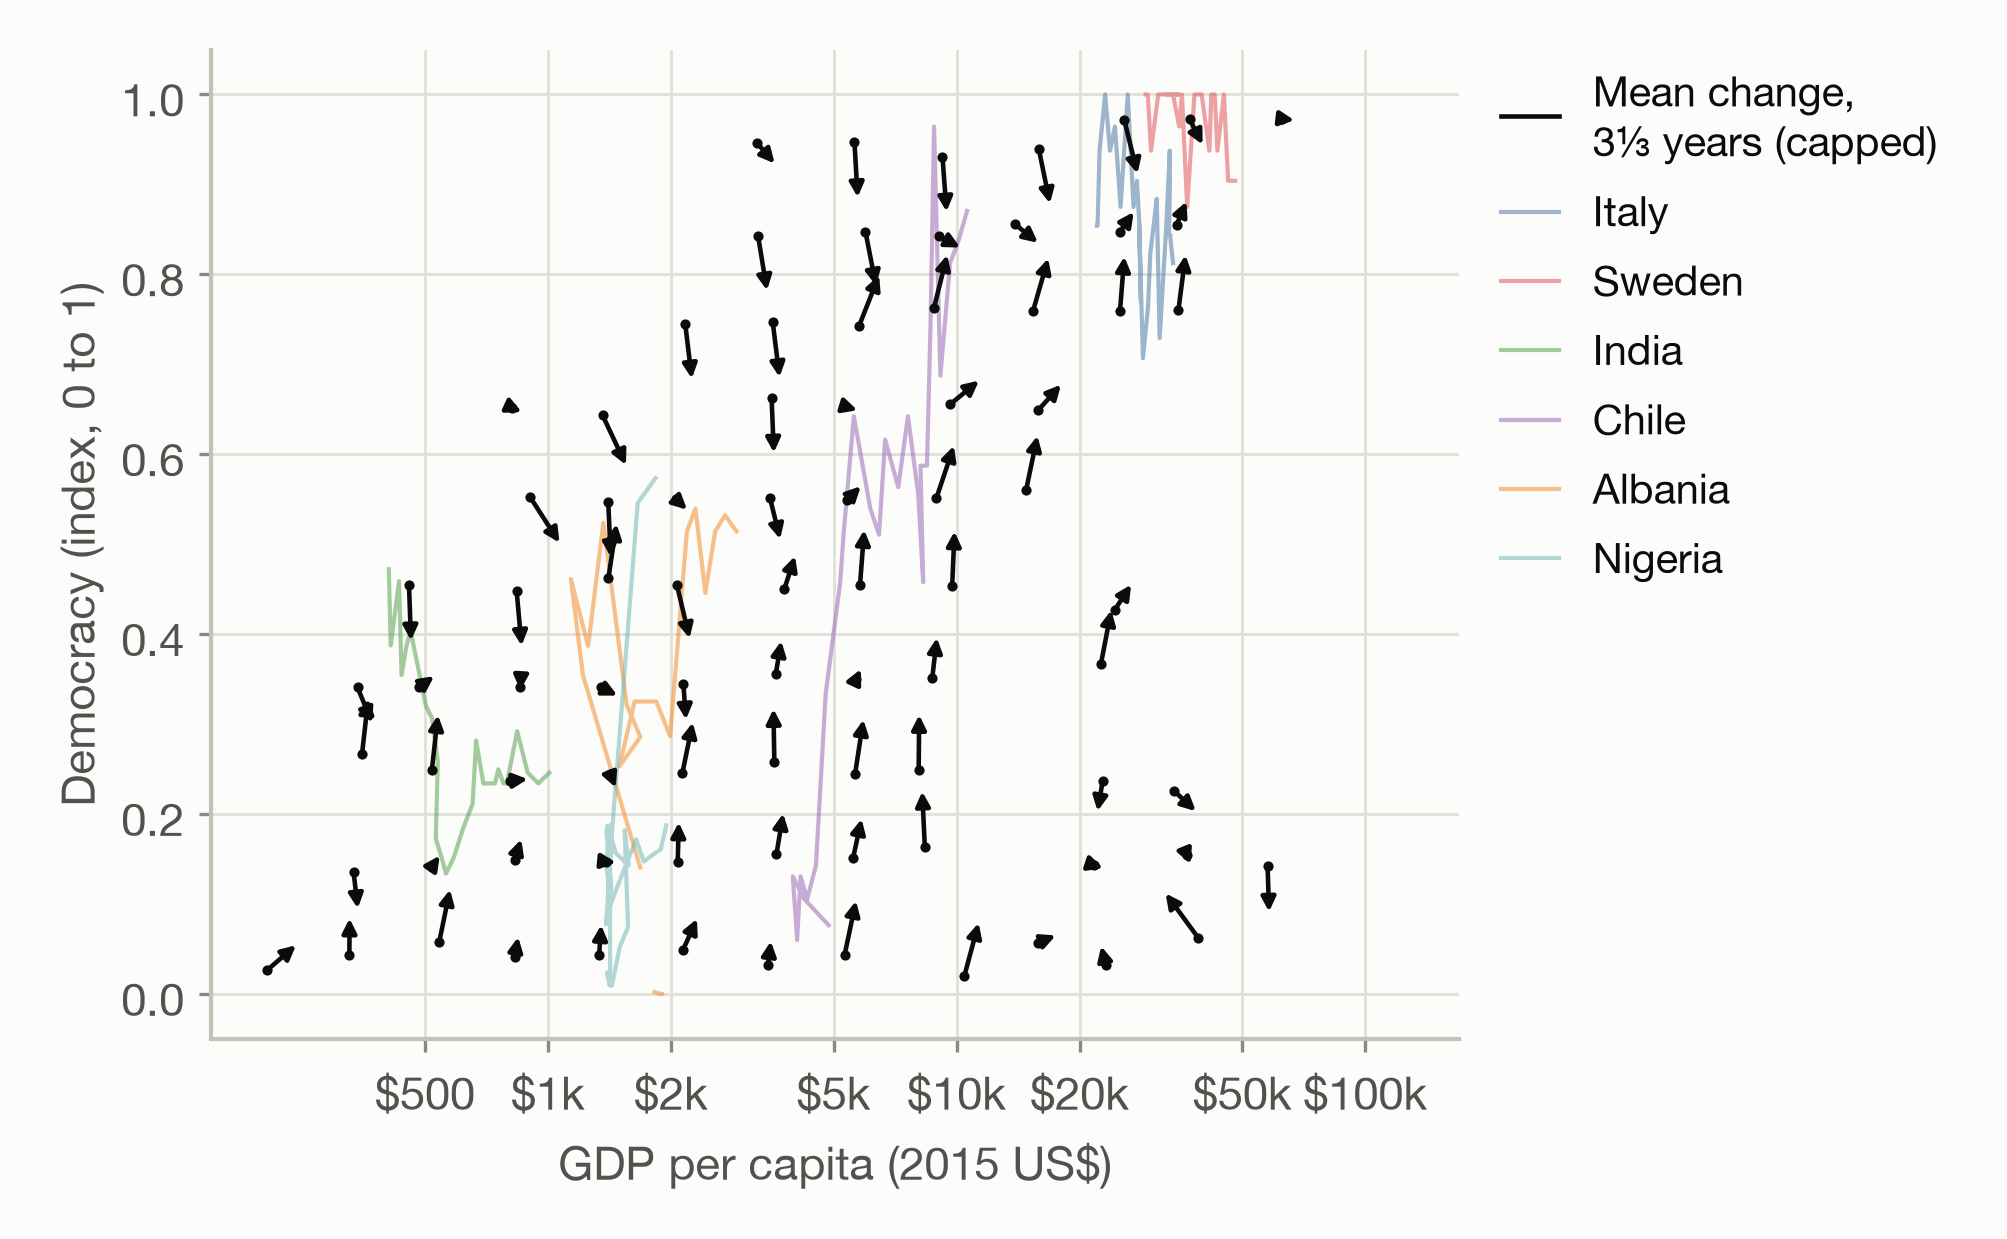
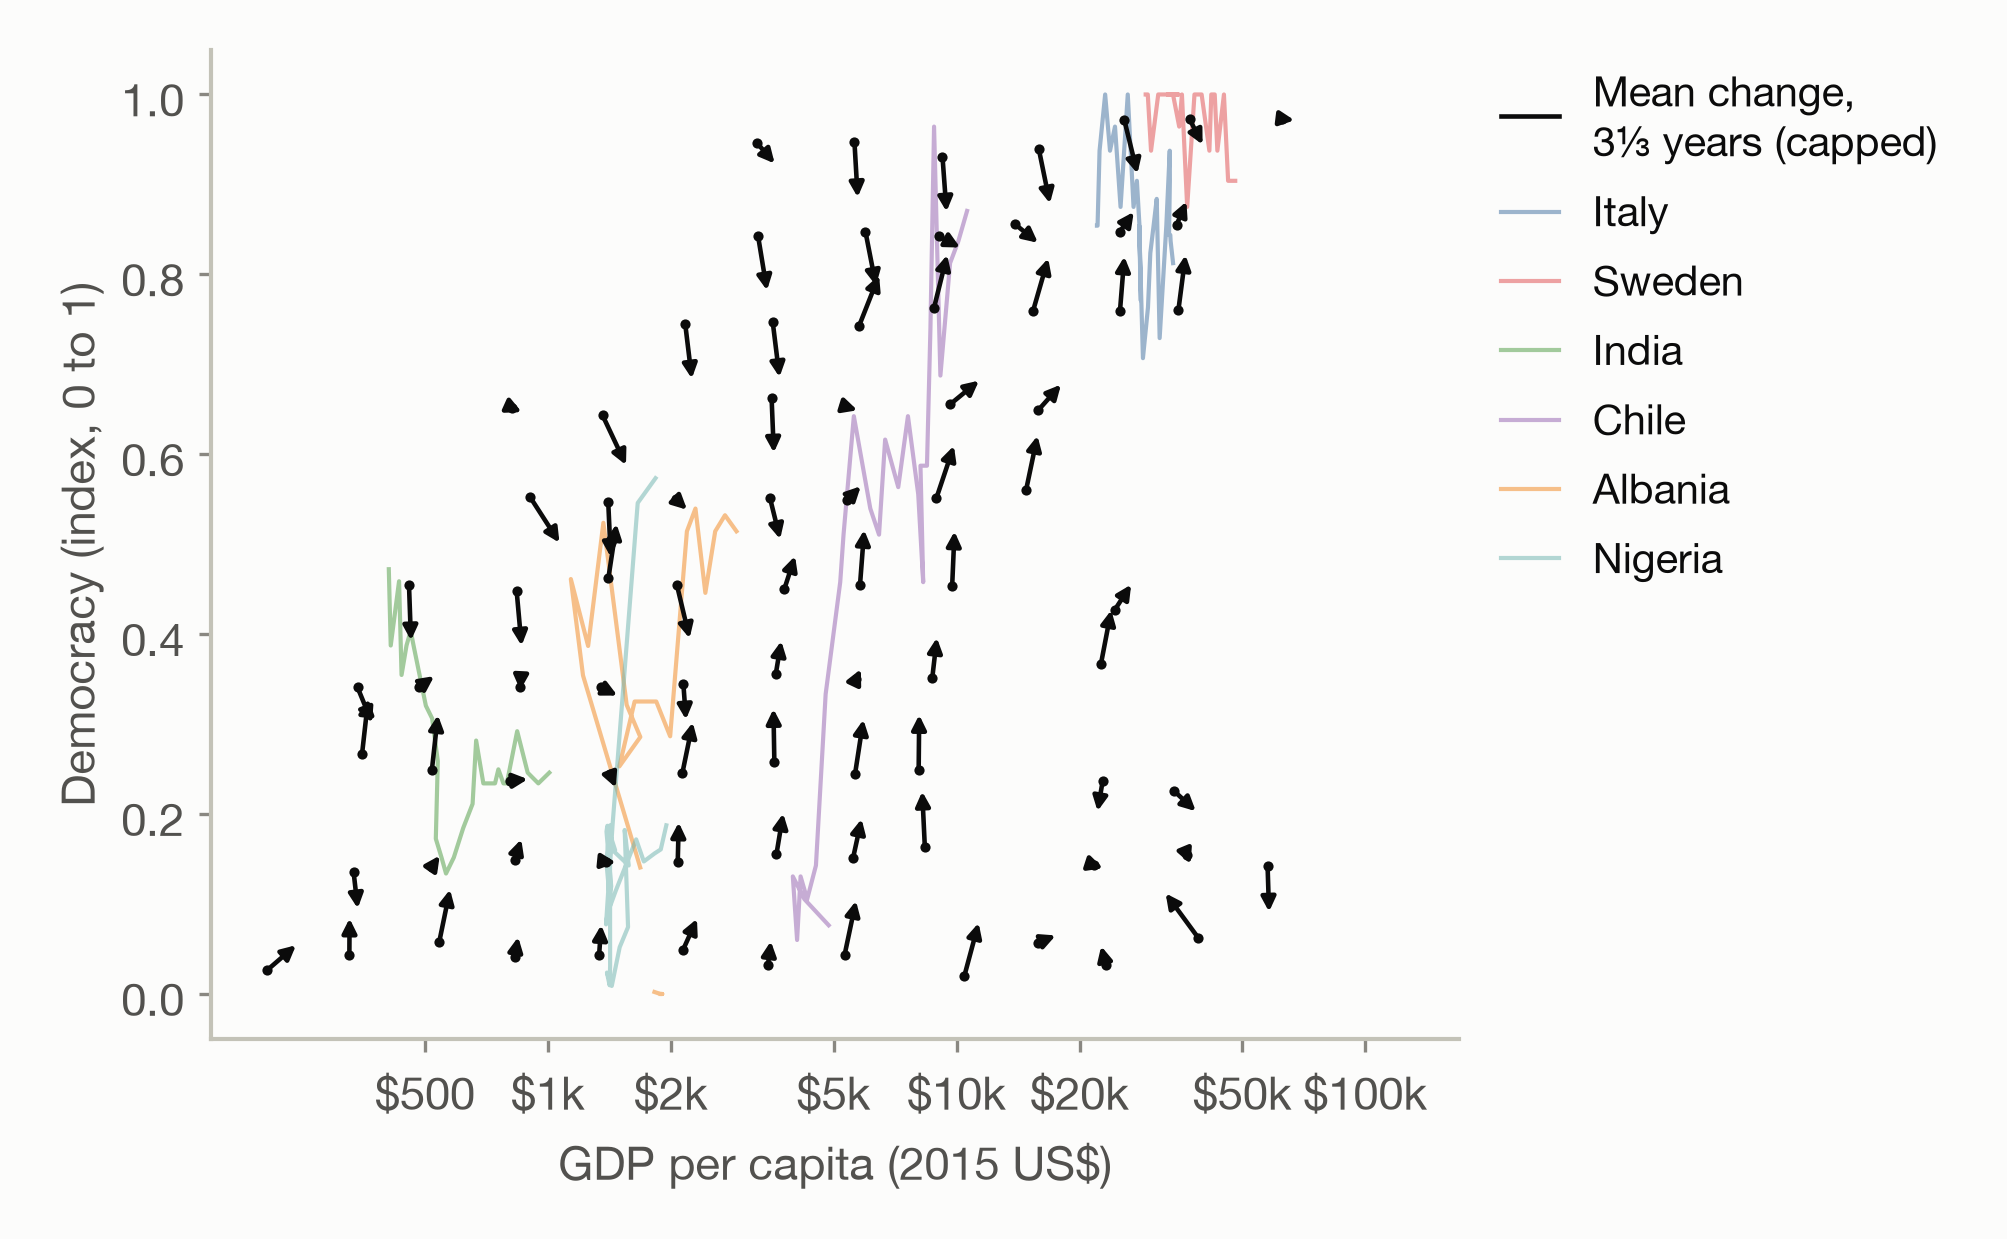
Step 4: one question in the Introduction; figures without background grid

diff --git a/Code/sds_common.py b/Code/sds_common.py
@@ -42,6 +42,7 @@ def style(theme_name: str):
         "xtick.labelsize": 11, "ytick.labelsize": 11,
         "legend.fontsize": 10, "legend.frameon": False,
         "lines.linewidth": 1.5, "savefig.dpi": DPI, "figure.dpi": 100,
+        "axes.grid": False,  # locked: no background grid (instructions.md)
         "xtick.major.size": 3, "ytick.major.size": 3,
         "xtick.minor.size": 1.5,
     })

diff --git a/Appendix.md b/Appendix.md
@@ -114,6 +114,8 @@ This conversion rests on the paper having used natural logs without rescaling. T
 
 ### Sub-questions
 
+*Superseded in step 4 (log row 25): at the user's request the report now asks a single question, "What model best describes the yearly changes in democracy and GDP per capita, and what dynamics does it imply?" The three sub-questions below are kept as the record of what was framed in step 2. Their reproduction criteria still apply to the comparison with the 2013 paper, which this appendix records under each sub-question heading in `Analysis`.*
+
 These are the branch's three default sub-questions. In a replication, "an answer either way" means reproducing the paper or not.
 
 1. **How does the yearly change in democracy depend on the current levels of democracy and GDP?**
@@ -319,6 +321,7 @@ Computed by `Code/08_joint_dynamics.py`; drawn by `Code/09_fig_model_phase_portr
 | 22 | Step 4, sub-question 3. Agreed: zero-change curves from posterior means; a 95% band from 1,000 posterior draws, with the resampled band in the appendix; yearly stepping from first observed states; a distance-to-curve convergence measure. Democracy's zero-change curve rises with GDP and attracts everywhere; GDP grows everywhere in range; 168 of 183 simulated and 104 of 183 observed countries end closer to the curve. Figure 4 made in the locked format, with the zero-change curve, its band and the simulated paths added; the curve is clipped to the range of the index after the first render. Added a `Methods` sub-heading and a `Results` paragraph with a reading paragraph. | `Code/08_joint_dynamics.py`, `Code/09_fig_model_phase_portrait.py`; `Report.md` |
 | 23 | Step 4. Figure 4 simplified at the user's request: observed paths removed, the curve named "democracy nullcline" and drawn lighter. The text and caption were updated, and now point to Figure 2 for the observed paths. | `Code/09_fig_model_phase_portrait.py`; `Report.md` |
 | 24 | Step 4. At the user's request, the three `Results` sub-sections were combined into one, "The fitted model and its dynamics", and simplified to fitting the model and looking at the dynamics. Removed from the report: the share of variance explained, the term sets of the next most probable sizes, and per-term resampling counts. All stay in this appendix under the sub-question headings. The `Methods` sub-heading "Sub-question 3" was renamed "Dynamics". The `Introduction` still lists three sub-questions. | `Report.md` |
+| 25 | Step 4. At the user's request, the `Introduction` now asks one question in place of three sub-questions. The contract now allows one to four questions, with one as the default, and locks the model phase portrait: model only, light grey "<Variable> nullcline" with its band, simulated paths, no data. The background grid was removed from all figures, and Figures 1–4 were redrawn and checked (sizes unchanged; 33 and 14 arrows capped, as before). | `instructions.md`; `Code/sds_common.py`; Figures 1–4; `Report.md` |
 
 ## Code Summary
 

diff --git a/Report.md b/Report.md
@@ -14,9 +14,7 @@ We look at how democracy and national income change together, using two country-
 
 Rather than relating the level of one variable to the level of the other, we model the yearly change in each as a function of the current levels of both. The two equations together describe a dynamical system. Following Ranganathan, Spaiser and Sumpter (2013), each change is written as a sum of terms from a fixed set of polynomials in the two variables. The data choose which terms enter: the best-fitting model is found for each number of terms, and models with different numbers of terms are compared by their Bayesian evidence. All countries are pooled, so we assume that every country follows the same dynamics from wherever it starts. The questions we look at are of association rather than cause. A term in the equation for the change in democracy says how that change varies with income, not that income drives it.
 
-1. How does the yearly change in democracy depend on the current levels of democracy and GDP per capita?
-2. How does the yearly change in GDP per capita depend on the current levels of democracy and GDP per capita?
-3. What do the two equations imply together: where does change stop, which way do countries move, and do their trajectories converge onto a common path?
+Our question is: what model best describes the yearly changes in democracy and GDP per capita, and what dynamics does it imply?
 
 ## Methods
 
